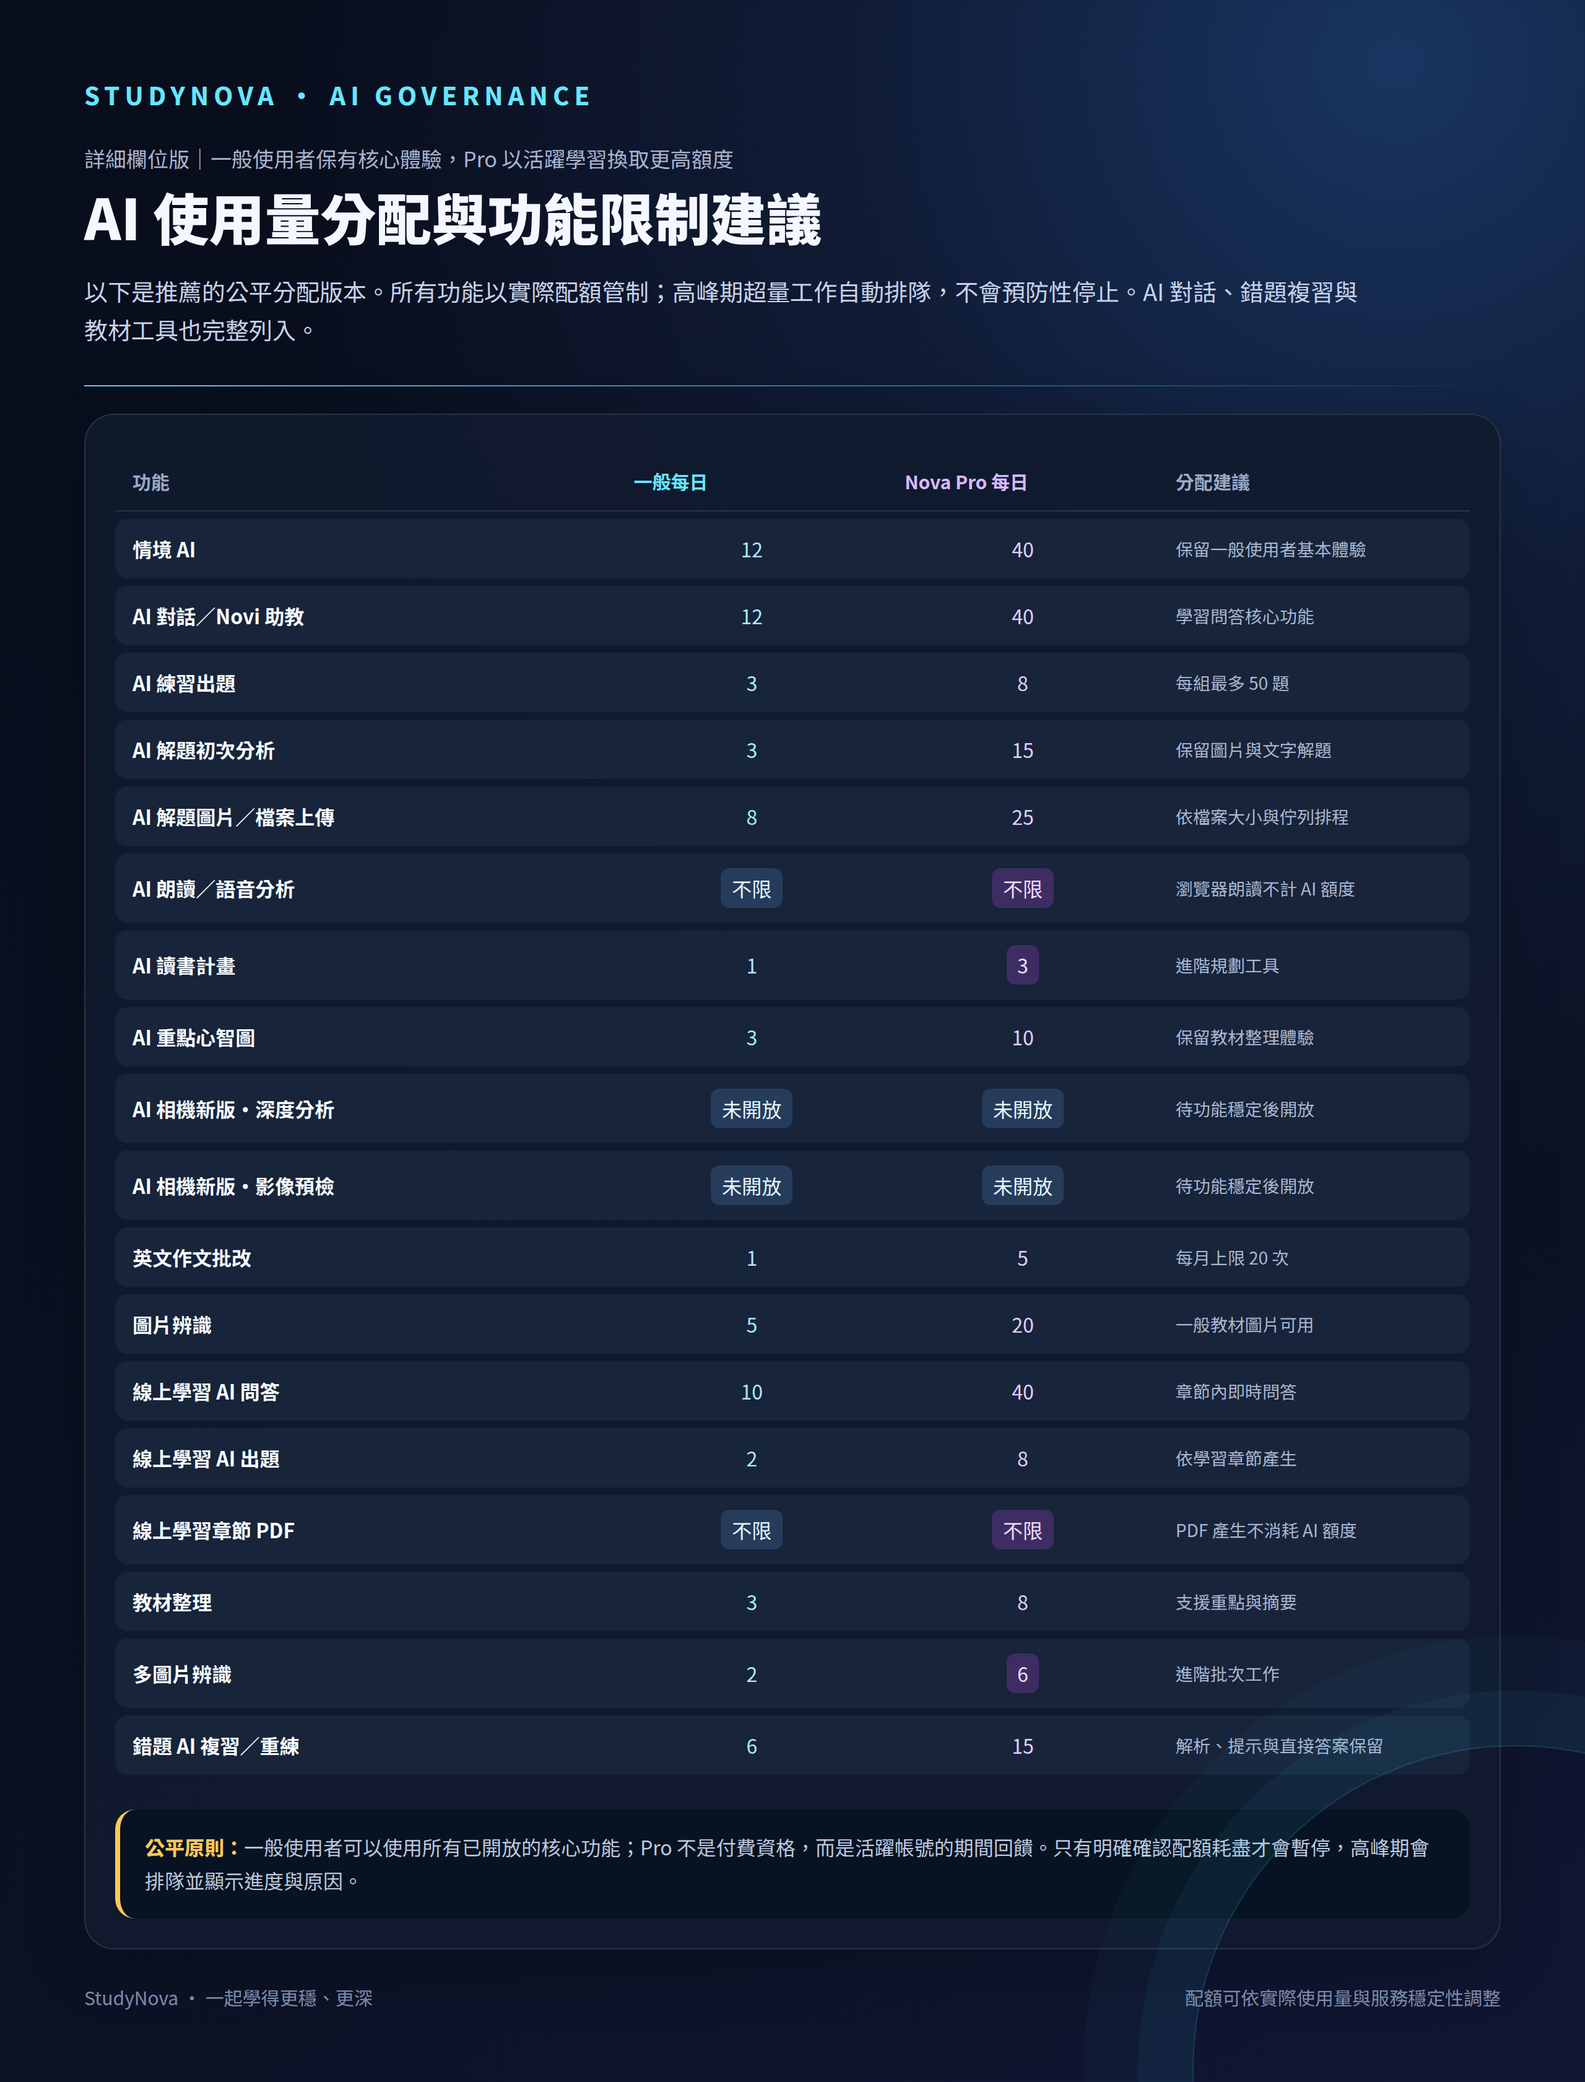
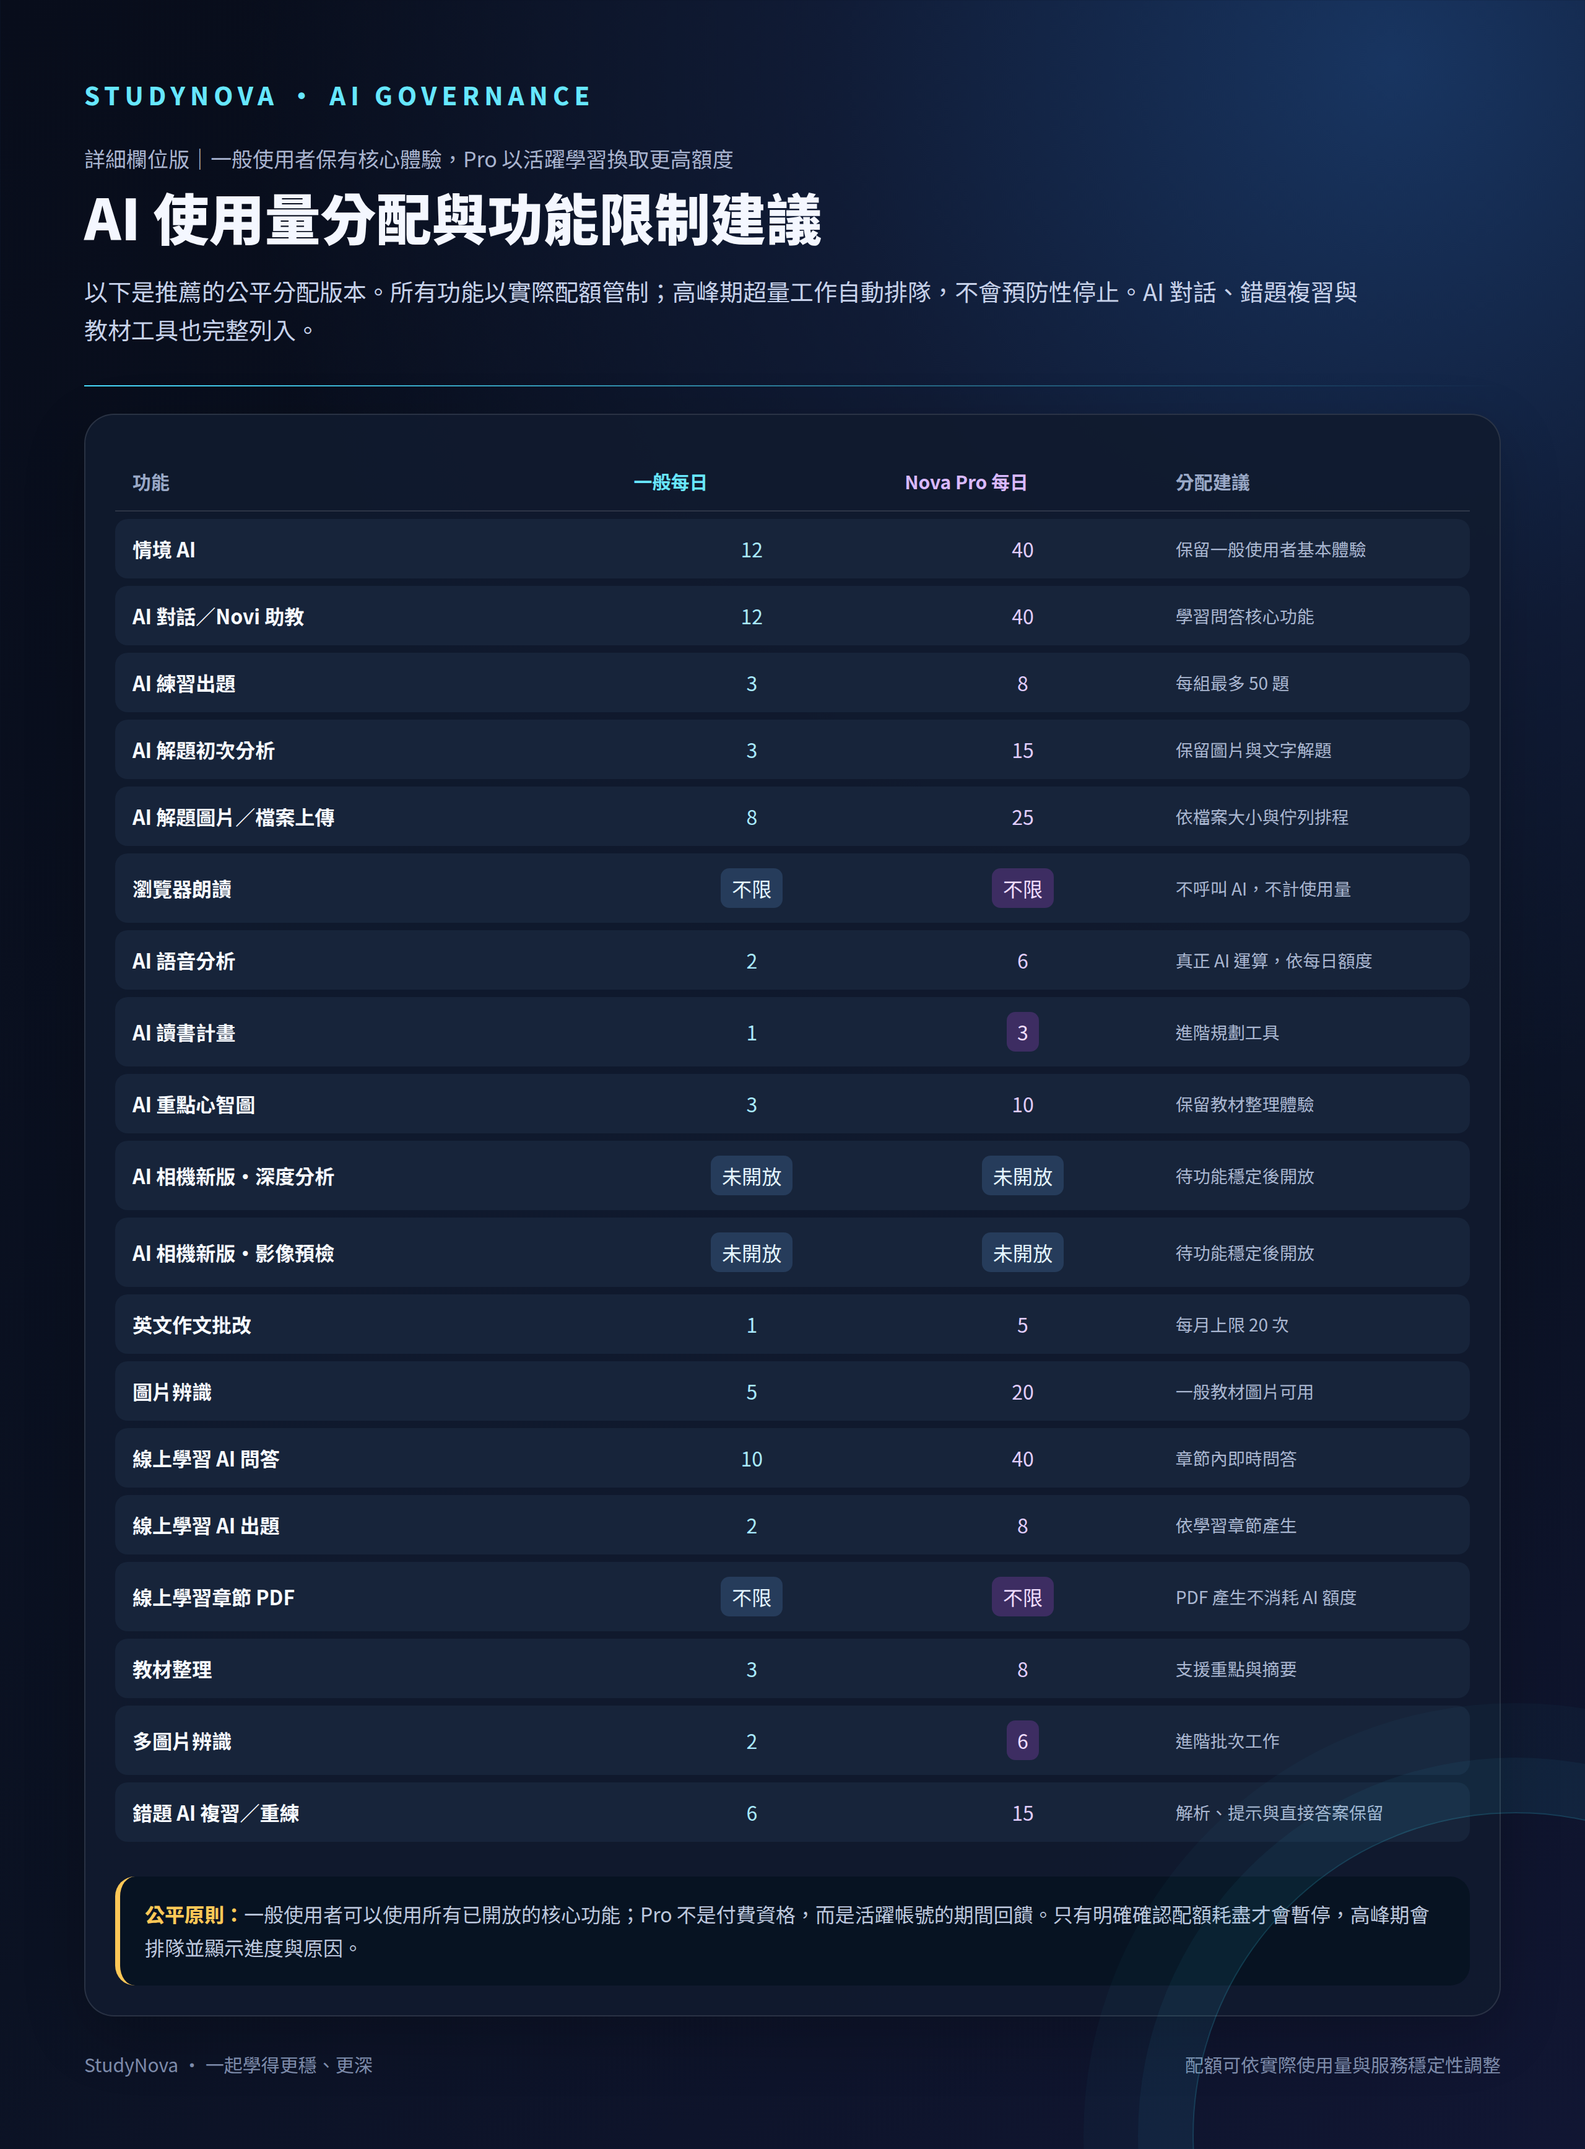
fix: separate unlimited speech from AI voice analysis

diff --git a/ai-governance-social.html b/ai-governance-social.html
@@ -1,1 +1,1 @@
-<!doctype html><html lang="zh-Hant"><head><meta charset="utf-8"><title>StudyNova AI 使用量分配建議</title><style>@import url('https://fonts.googleapis.com/css2?family=Noto+Sans+TC:wght@400;500;700;800;900&display=swap');*{box-sizing:border-box}body{margin:0;background:#070b16;color:#f4f7ff;font-family:'Noto Sans TC',system-ui,sans-serif}main{width:1280px;margin:0 auto;padding:62px 68px 58px;background:radial-gradient(circle at 88% 3%,#183561 0,#101b35 23%,transparent 46%),linear-gradient(150deg,#080d1b,#0b1223 65%,#111633);position:relative;overflow:hidden}main:after{content:'';position:absolute;width:520px;height:520px;border:1px solid #3be1ff33;border-radius:50%;right:-205px;bottom:-250px;box-shadow:0 0 0 44px #3be1ff0d,0 0 0 88px #3be1ff08}.brand{letter-spacing:4px;color:#66e7ff;font-weight:800;font-size:20px}.kicker{color:#a9b4cf;font-size:17px;margin-top:24px}.title{font-size:45px;line-height:1.16;margin:9px 0 14px;font-weight:900}.lead{font-size:19px;color:#c7d2ea;line-height:1.6;max-width:1040px}.rule{height:1px;background:linear-gradient(90deg,#49ddff,transparent);margin:30px 0 22px}.table-card{border:1px solid #ffffff1c;border-radius:24px;padding:24px;background:#111a2ee8;box-shadow:0 16px 50px #0003}.table{width:100%;border-collapse:separate;border-spacing:0 6px;font-size:16px}.table th{padding:13px 14px;text-align:left;color:#9aa9c7;font-size:15px;font-weight:700;border-bottom:1px solid #ffffff20}.table th:nth-child(2){color:#68e7ff}.table th:nth-child(3){color:#d9b9ff}.table td{padding:12px 14px;background:#17243a;vertical-align:middle}.table td:first-child{border-radius:10px 0 0 10px;font-weight:700;color:#f8fbff;width:37%}.table td:nth-child(2){color:#a9eaff;width:20%;text-align:center}.table td:nth-child(3){color:#e2ceff;width:20%;text-align:center}.table td:last-child{border-radius:0 10px 10px 0;color:#aab7d1;font-size:14px;width:23%}.table tr:hover td{background:#1b3150}.tag{display:inline-block;padding:4px 9px;border-radius:7px;background:#263c5b;color:#e5f6ff}.tag.pro{background:#3d2d62;color:#f0ddff}.section{font-size:20px;color:#ffc857;margin:28px 0 12px;font-weight:800}.note{margin-top:22px;padding:17px 20px;border-radius:16px;background:#071322;border-left:4px solid #ffc857;color:#bdc8de;font-size:16px;line-height:1.7}.accent{color:#ffc857;font-weight:800}.footer{margin-top:28px;color:#7d8baa;font-size:15px;display:flex;justify-content:space-between}</style></head><body><main><div class="brand">STUDYNOVA · AI GOVERNANCE</div><div class="kicker">詳細欄位版｜一般使用者保有核心體驗，Pro 以活躍學習換取更高額度</div><h1 class="title">AI 使用量分配與功能限制建議</h1><p class="lead">以下是推薦的公平分配版本。所有功能以實際配額管制；高峰期超量工作自動排隊，不會預防性停止。AI 對話、錯題複習與教材工具也完整列入。</p><div class="rule"></div><div class="table-card"><table class="table"><thead><tr><th>功能</th><th>一般每日</th><th>Nova Pro 每日</th><th>分配建議</th></tr></thead><tbody><tr><td>情境 AI</td><td>12</td><td>40</td><td>保留一般使用者基本體驗</td></tr><tr><td>AI 對話／Novi 助教</td><td>12</td><td>40</td><td>學習問答核心功能</td></tr><tr><td>AI 練習出題</td><td>3</td><td>8</td><td>每組最多 50 題</td></tr><tr><td>AI 解題初次分析</td><td>3</td><td>15</td><td>保留圖片與文字解題</td></tr><tr><td>AI 解題圖片／檔案上傳</td><td>8</td><td>25</td><td>依檔案大小與佇列排程</td></tr><tr><td>AI 朗讀／語音分析</td><td><span class="tag">不限</span></td><td><span class="tag pro">不限</span></td><td>瀏覽器朗讀不計 AI 額度</td></tr><tr><td>AI 讀書計畫</td><td>1</td><td><span class="tag pro">3</span></td><td>進階規劃工具</td></tr><tr><td>AI 重點心智圖</td><td>3</td><td>10</td><td>保留教材整理體驗</td></tr><tr><td>AI 相機新版・深度分析</td><td><span class="tag">未開放</span></td><td><span class="tag">未開放</span></td><td>待功能穩定後開放</td></tr><tr><td>AI 相機新版・影像預檢</td><td><span class="tag">未開放</span></td><td><span class="tag">未開放</span></td><td>待功能穩定後開放</td></tr><tr><td>英文作文批改</td><td>1</td><td>5</td><td>每月上限 20 次</td></tr><tr><td>圖片辨識</td><td>5</td><td>20</td><td>一般教材圖片可用</td></tr><tr><td>線上學習 AI 問答</td><td>10</td><td>40</td><td>章節內即時問答</td></tr><tr><td>線上學習 AI 出題</td><td>2</td><td>8</td><td>依學習章節產生</td></tr><tr><td>線上學習章節 PDF</td><td><span class="tag">不限</span></td><td><span class="tag pro">不限</span></td><td>PDF 產生不消耗 AI 額度</td></tr><tr><td>教材整理</td><td>3</td><td>8</td><td>支援重點與摘要</td></tr><tr><td>多圖片辨識</td><td>2</td><td><span class="tag pro">6</span></td><td>進階批次工作</td></tr><tr><td>錯題 AI 複習／重練</td><td>6</td><td>15</td><td>解析、提示與直接答案保留</td></tr></tbody></table><div class="note"><span class="accent">公平原則：</span>一般使用者可以使用所有已開放的核心功能；Pro 不是付費資格，而是活躍帳號的期間回饋。只有明確確認配額耗盡才會暫停，高峰期會排隊並顯示進度與原因。</div></div><div class="footer"><span>StudyNova · 一起學得更穩、更深</span><span>配額可依實際使用量與服務穩定性調整</span></div></main></body></html>
+<!doctype html><html lang="zh-Hant"><head><meta charset="utf-8"><title>StudyNova AI 使用量分配建議</title><style>@import url('https://fonts.googleapis.com/css2?family=Noto+Sans+TC:wght@400;500;700;800;900&display=swap');*{box-sizing:border-box}body{margin:0;background:#070b16;color:#f4f7ff;font-family:'Noto Sans TC',system-ui,sans-serif}main{width:1280px;margin:0 auto;padding:62px 68px 58px;background:radial-gradient(circle at 88% 3%,#183561 0,#101b35 23%,transparent 46%),linear-gradient(150deg,#080d1b,#0b1223 65%,#111633);position:relative;overflow:hidden}main:after{content:'';position:absolute;width:520px;height:520px;border:1px solid #3be1ff33;border-radius:50%;right:-205px;bottom:-250px;box-shadow:0 0 0 44px #3be1ff0d,0 0 0 88px #3be1ff08}.brand{letter-spacing:4px;color:#66e7ff;font-weight:800;font-size:20px}.kicker{color:#a9b4cf;font-size:17px;margin-top:24px}.title{font-size:45px;line-height:1.16;margin:9px 0 14px;font-weight:900}.lead{font-size:19px;color:#c7d2ea;line-height:1.6;max-width:1040px}.rule{height:1px;background:linear-gradient(90deg,#49ddff,transparent);margin:30px 0 22px}.table-card{border:1px solid #ffffff1c;border-radius:24px;padding:24px;background:#111a2ee8;box-shadow:0 16px 50px #0003}.table{width:100%;border-collapse:separate;border-spacing:0 6px;font-size:16px}.table th{padding:13px 14px;text-align:left;color:#9aa9c7;font-size:15px;font-weight:700;border-bottom:1px solid #ffffff20}.table th:nth-child(2){color:#68e7ff}.table th:nth-child(3){color:#d9b9ff}.table td{padding:12px 14px;background:#17243a;vertical-align:middle}.table td:first-child{border-radius:10px 0 0 10px;font-weight:700;color:#f8fbff;width:37%}.table td:nth-child(2){color:#a9eaff;width:20%;text-align:center}.table td:nth-child(3){color:#e2ceff;width:20%;text-align:center}.table td:last-child{border-radius:0 10px 10px 0;color:#aab7d1;font-size:14px;width:23%}.table tr:hover td{background:#1b3150}.tag{display:inline-block;padding:4px 9px;border-radius:7px;background:#263c5b;color:#e5f6ff}.tag.pro{background:#3d2d62;color:#f0ddff}.section{font-size:20px;color:#ffc857;margin:28px 0 12px;font-weight:800}.note{margin-top:22px;padding:17px 20px;border-radius:16px;background:#071322;border-left:4px solid #ffc857;color:#bdc8de;font-size:16px;line-height:1.7}.accent{color:#ffc857;font-weight:800}.footer{margin-top:28px;color:#7d8baa;font-size:15px;display:flex;justify-content:space-between}</style></head><body><main><div class="brand">STUDYNOVA · AI GOVERNANCE</div><div class="kicker">詳細欄位版｜一般使用者保有核心體驗，Pro 以活躍學習換取更高額度</div><h1 class="title">AI 使用量分配與功能限制建議</h1><p class="lead">以下是推薦的公平分配版本。所有功能以實際配額管制；高峰期超量工作自動排隊，不會預防性停止。AI 對話、錯題複習與教材工具也完整列入。</p><div class="rule"></div><div class="table-card"><table class="table"><thead><tr><th>功能</th><th>一般每日</th><th>Nova Pro 每日</th><th>分配建議</th></tr></thead><tbody><tr><td>情境 AI</td><td>12</td><td>40</td><td>保留一般使用者基本體驗</td></tr><tr><td>AI 對話／Novi 助教</td><td>12</td><td>40</td><td>學習問答核心功能</td></tr><tr><td>AI 練習出題</td><td>3</td><td>8</td><td>每組最多 50 題</td></tr><tr><td>AI 解題初次分析</td><td>3</td><td>15</td><td>保留圖片與文字解題</td></tr><tr><td>AI 解題圖片／檔案上傳</td><td>8</td><td>25</td><td>依檔案大小與佇列排程</td></tr><tr><td>瀏覽器朗讀</td><td><span class="tag">不限</span></td><td><span class="tag pro">不限</span></td><td>不呼叫 AI，不計使用量</td></tr><tr><td>AI 語音分析</td><td>2</td><td>6</td><td>真正 AI 運算，依每日額度</td></tr><tr><td>AI 讀書計畫</td><td>1</td><td><span class="tag pro">3</span></td><td>進階規劃工具</td></tr><tr><td>AI 重點心智圖</td><td>3</td><td>10</td><td>保留教材整理體驗</td></tr><tr><td>AI 相機新版・深度分析</td><td><span class="tag">未開放</span></td><td><span class="tag">未開放</span></td><td>待功能穩定後開放</td></tr><tr><td>AI 相機新版・影像預檢</td><td><span class="tag">未開放</span></td><td><span class="tag">未開放</span></td><td>待功能穩定後開放</td></tr><tr><td>英文作文批改</td><td>1</td><td>5</td><td>每月上限 20 次</td></tr><tr><td>圖片辨識</td><td>5</td><td>20</td><td>一般教材圖片可用</td></tr><tr><td>線上學習 AI 問答</td><td>10</td><td>40</td><td>章節內即時問答</td></tr><tr><td>線上學習 AI 出題</td><td>2</td><td>8</td><td>依學習章節產生</td></tr><tr><td>線上學習章節 PDF</td><td><span class="tag">不限</span></td><td><span class="tag pro">不限</span></td><td>PDF 產生不消耗 AI 額度</td></tr><tr><td>教材整理</td><td>3</td><td>8</td><td>支援重點與摘要</td></tr><tr><td>多圖片辨識</td><td>2</td><td><span class="tag pro">6</span></td><td>進階批次工作</td></tr><tr><td>錯題 AI 複習／重練</td><td>6</td><td>15</td><td>解析、提示與直接答案保留</td></tr></tbody></table><div class="note"><span class="accent">公平原則：</span>一般使用者可以使用所有已開放的核心功能；Pro 不是付費資格，而是活躍帳號的期間回饋。只有明確確認配額耗盡才會暫停，高峰期會排隊並顯示進度與原因。</div></div><div class="footer"><span>StudyNova · 一起學得更穩、更深</span><span>配額可依實際使用量與服務穩定性調整</span></div></main></body></html>

diff --git a/src/server/quota-policy.ts b/src/server/quota-policy.ts
@@ -23,6 +23,7 @@ export const SERVER_FEATURE_DEFAULTS: readonly FeaturePermissionPolicy[] = [
   { feature: "ai_study_plan", label: "AI 讀書計畫", enabled: true, proOnly: false, freeDailyLimit: 1, proDailyLimit: 3, monthlyLimit: 0, novaCost: 0 },
   { feature: "wrong_review_ai", label: "錯題 AI 複習", enabled: true, proOnly: false, freeDailyLimit: 6, proDailyLimit: 15, monthlyLimit: 0, novaCost: 0 },
   { feature: "ai_speech", label: "AI 朗讀／語音分析", enabled: true, proOnly: false, freeDailyLimit: -1, proDailyLimit: -1, monthlyLimit: 0, novaCost: 0 },
+  { feature: "speech_analysis", label: "AI 語音分析", enabled: true, proOnly: false, freeDailyLimit: 2, proDailyLimit: 6, monthlyLimit: 0, novaCost: 0 },
   { feature: "ai_visual", label: "AI 重點心智圖", enabled: true, proOnly: false, freeDailyLimit: 3, proDailyLimit: 10, monthlyLimit: 0, novaCost: 0 },
   { feature: "learning_ai_chat", label: "線上學習 AI 問答", enabled: true, proOnly: false, freeDailyLimit: 10, proDailyLimit: 40, monthlyLimit: 0, novaCost: 0 },
   { feature: "learning_ai_question_generation", label: "線上學習 AI 出題", enabled: true, proOnly: false, freeDailyLimit: 2, proDailyLimit: 8, monthlyLimit: 0, novaCost: 5 },

diff --git a/src/server/seed.ts b/src/server/seed.ts
@@ -66,6 +66,7 @@ const FEATURES = [
   { feature: "ai_study_plan", label: "AI 讀書計畫", freeDailyLimit: 1, proDailyLimit: 3 },
   { feature: "wrong_review_ai", label: "錯題 AI 複習", freeDailyLimit: 6, proDailyLimit: 15 },
   { feature: "ai_speech", label: "AI 朗讀 / 語音分析", freeDailyLimit: -1, proDailyLimit: -1 },
+  { feature: "speech_analysis", label: "AI 語音分析", freeDailyLimit: 2, proDailyLimit: 6 },
   { feature: "ai_visual", label: "AI 重點心智圖", freeDailyLimit: 3, proDailyLimit: 10 },
   { feature: "learning_chapter_pdf", label: "線上學習章節 PDF", freeDailyLimit: -1, proDailyLimit: -1 },
   { feature: "image_ocr", label: "圖片辨識", freeDailyLimit: 5, proDailyLimit: 20 },

diff --git a/src/server/routes/content-routes.ts b/src/server/routes/content-routes.ts
@@ -1104,7 +1104,7 @@ stage = "ai_provider";
       const durationSec = Number(form.get("durationSec") ?? 0) || 0;
       if (!(file instanceof File)) throw fail("REQ_NO_FILE", { message: "請提供錄音檔" });
       if (!aiConfigured()) throw fail("AI_VOICE_REQUIRED");
-      await consumeFeature(user.userId, "ai_speech");
+      await consumeFeature(user.userId, "speech_analysis");
 
       const buf = Buffer.from(await file.arrayBuffer());
       const stored = await putObject({ userId: user.userId, filename: file.name || "record.webm", mimeType: file.type || "audio/webm", data: buf, allow: ["audio"] });
